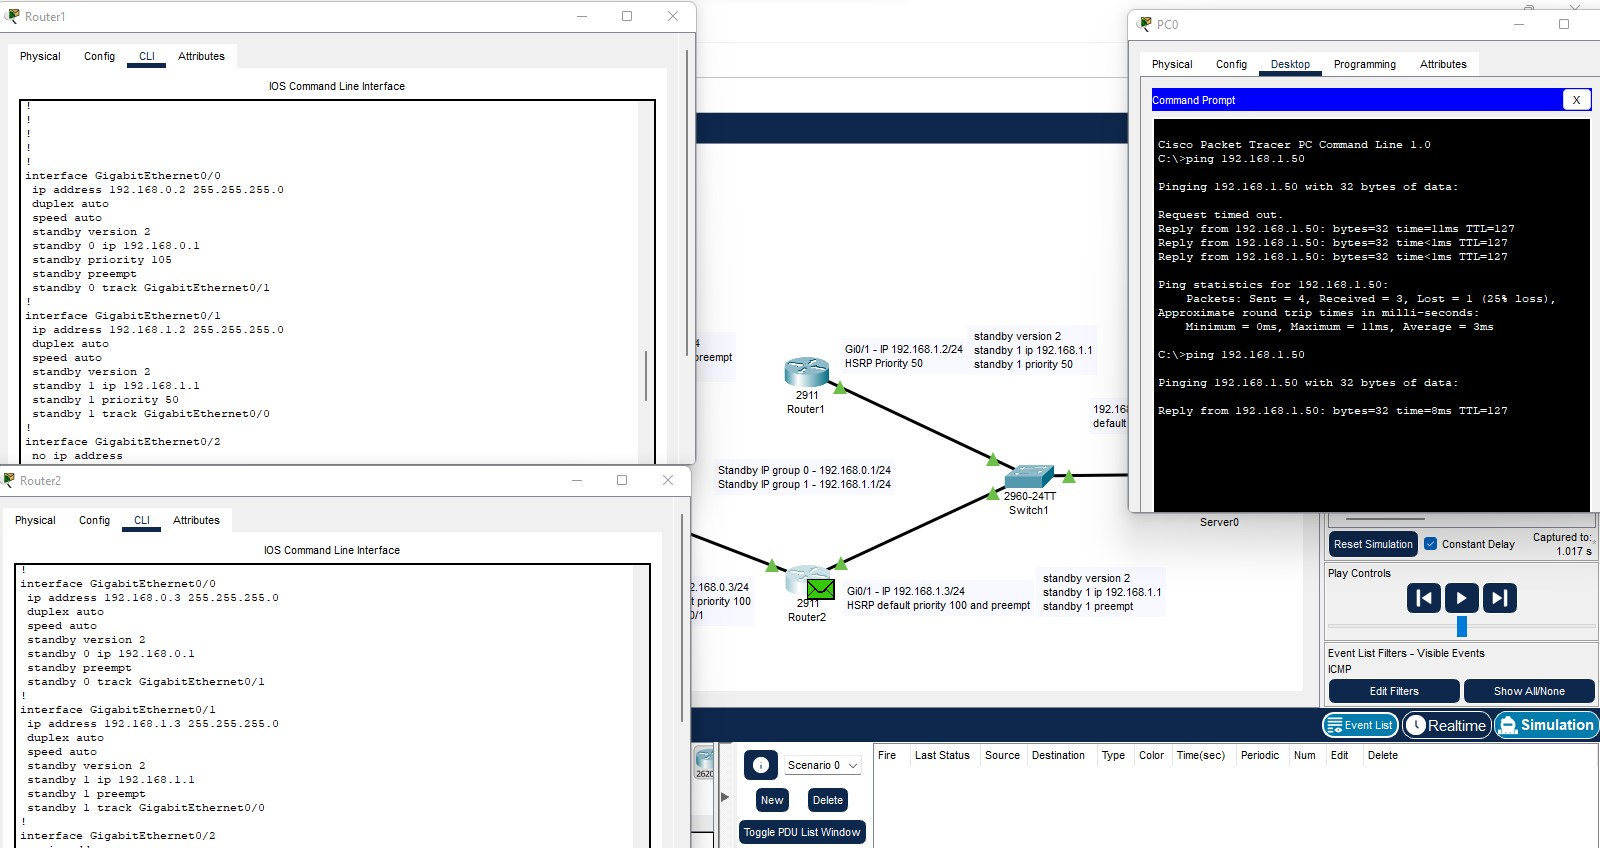
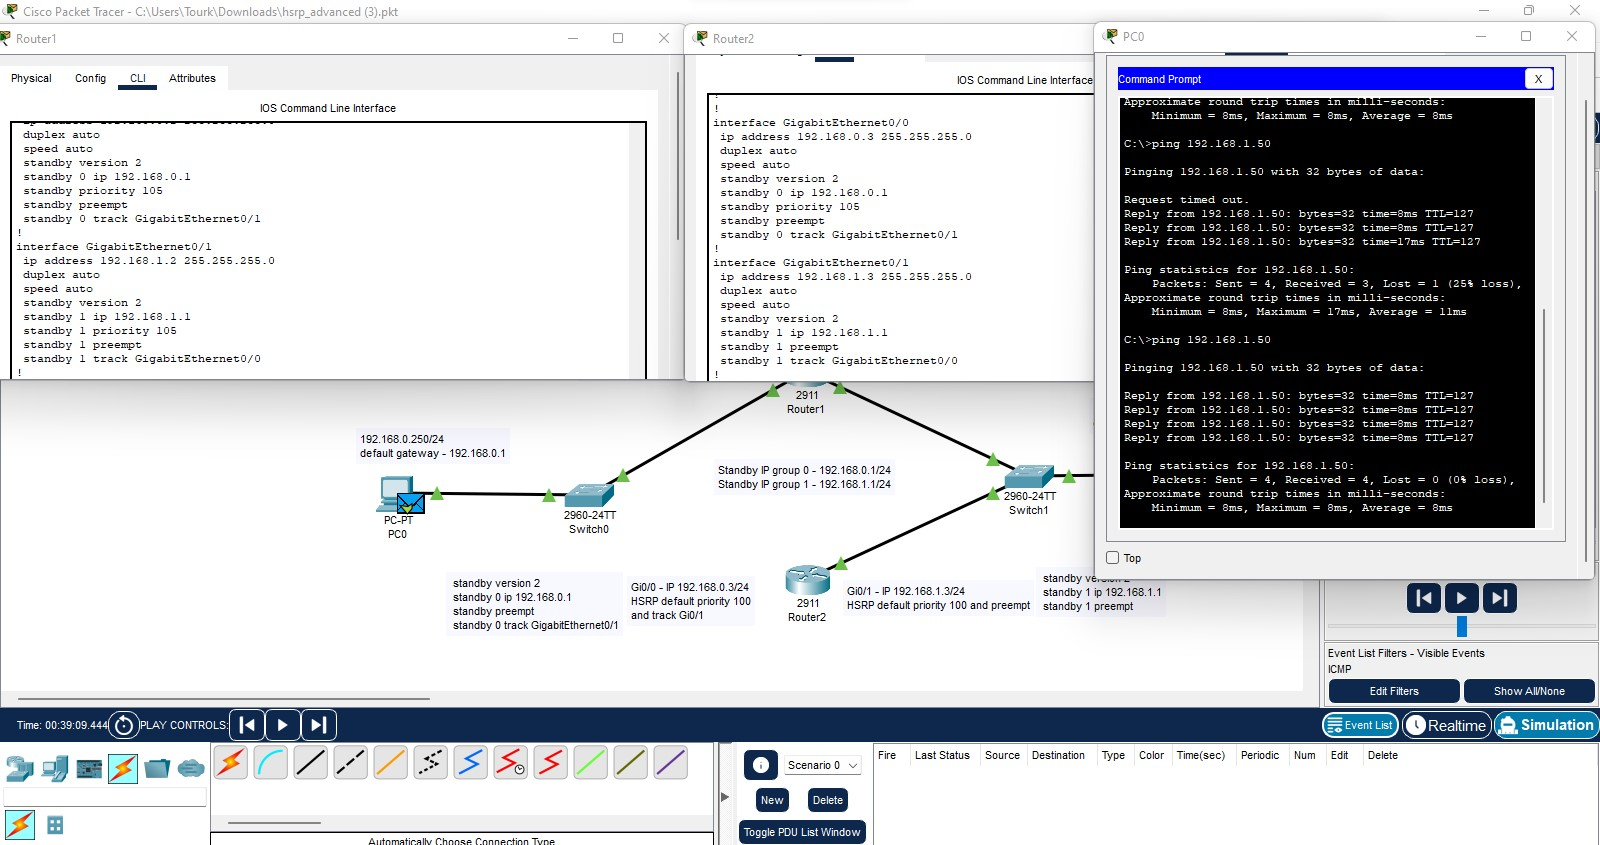
HW1_backup_update
HW1__backup_update

diff --git a/HW_backup01.md b/HW_backup01.md
@@ -3,8 +3,11 @@
 ---
 
 ### Задание 1
-
+`Скриншот пинга от PC0 до Server при разрыве соединения между Switch0 и Router2`
 ![Настройки](https://github.com/Tourker/Git_HW/blob/main/img/backup/zadanie1.jpg)
+
+`Скриншот пинга от PC0 до Server при разрыве соединения между Switch0 и Router1`
+![Настройки2](https://github.com/Tourker/Git_HW/blob/main/img/backup/zadanie1_2.jpg)
 
 ### Задание 2
 
@@ -42,6 +45,6 @@ fi
 
 `Cкриншот перезда на другой сервер`
 
-![Cкриншот перезда на другой сервер](https://github.com/Tourker/Git_HW/blob/main/img/backup/Transport_on_VM2.jpg)
+![Cкриншот перезда на другой сервер](https://github.com/Tourker/Git_HW/blob/main/img/backup/Keepalived_VM2.jpg)
 
 
